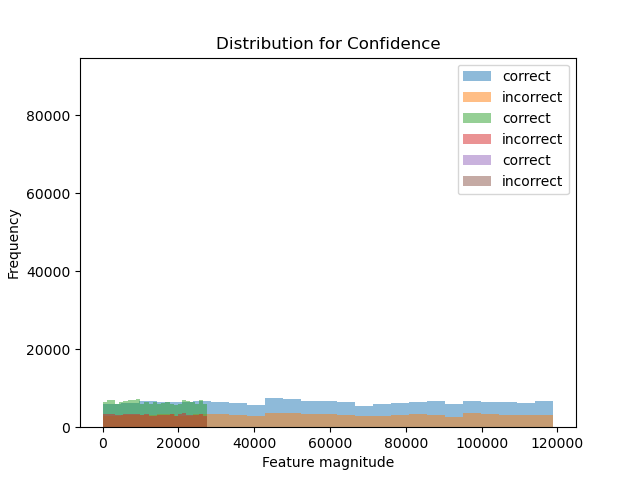
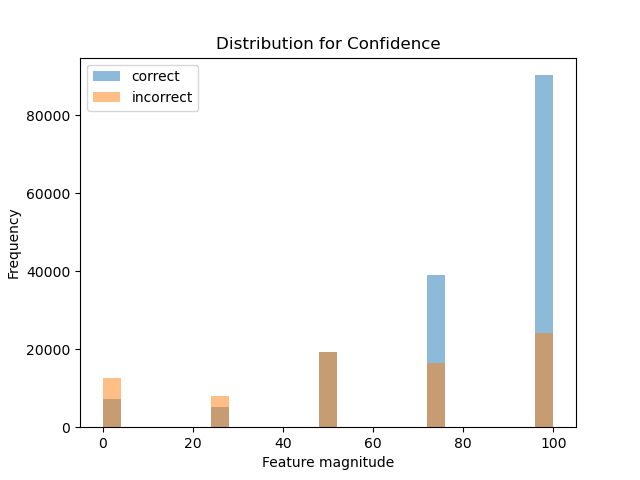
Debug accumulating plt

Changed region(s): [[0.1562, 0.125, 0.9062, 0.9375], [0.125, 0.125, 0.3125, 0.2188]]

diff --git a/data/visualize.py b/data/visualize.py
@@ -6,7 +6,7 @@ import os
 
 # Create a histogram of the features with the data
 def plot_feature_histograms(data):
-    data = data.drop_duplicates()
+    data = data.drop_duplicates(['UserId', 'QuestionId'])
     features = ['UserId', 'QuestionId', 'Confidence']
     print(features)
     correct = data[data['IsCorrect'] == 1]
@@ -20,6 +20,7 @@ def plot_feature_histograms(data):
         plt.title(f"Distribution for {key}")
         plt.legend(loc="best")
         plt.savefig(f'./{key}.png')
+        plt.clf()
 
 # Create a scatter plot of the features with the data
 def plot_feature_scatter(data):
